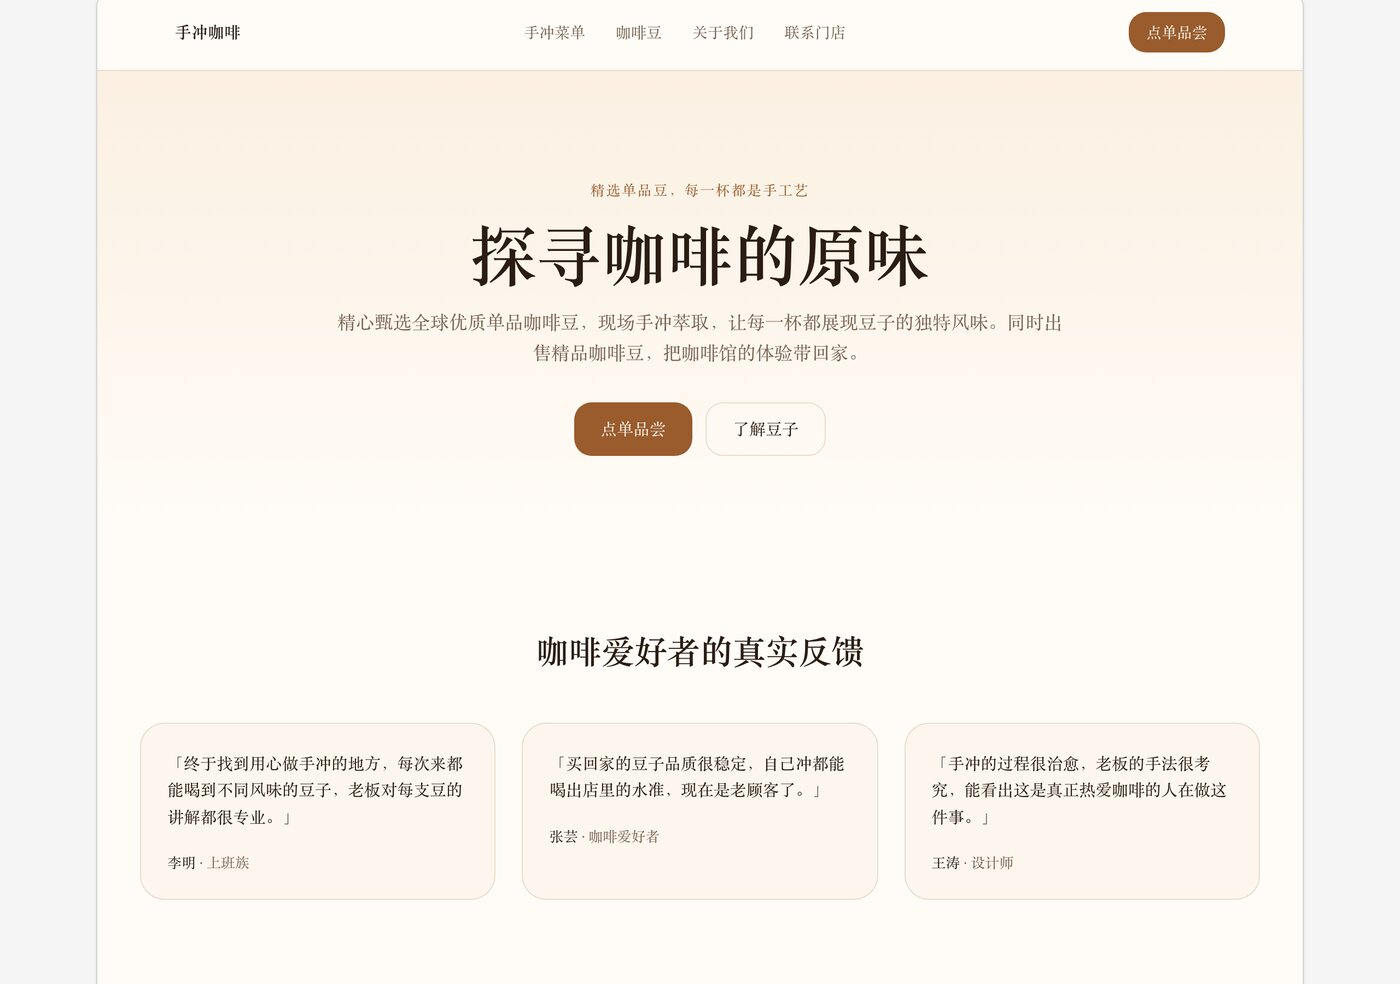
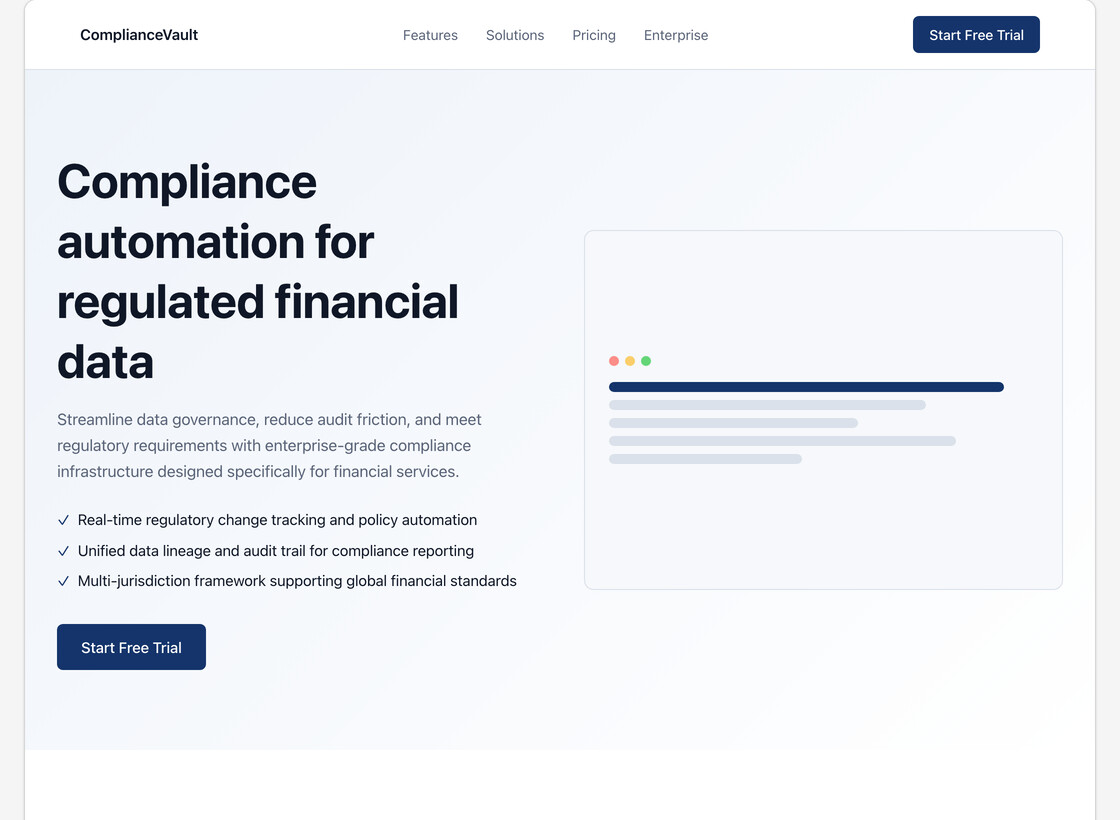
fix: the UI kept the locale it booted with, and the screenshots showed it
Redoing the README images at higher quality surfaced a bug the earlier ones had
been quietly displaying: with the interface set to English, the streaming
decision log still read 规划 / 文案 / 渲染 / 共.

Four useCallback hooks read the locale dictionary while declaring no dependency
on it, so they closed over whatever locale was current on first render. Because
the locale is detected in an effect, that is always the initial one — the UI
switched language and the status lines did not. Adding a test for the pattern
found three more beyond the one the screenshot showed.

Two further strings were never localisable at all: archetype names came from
plan.ts and theme names from themes.ts, both hardcoded Chinese, both rendered
in the UI. They now live in locales/*.json like everything else, so the key
parity test covers them.

Images redone in English at higher quality. The previous set was downscaled
twice before JPEG compression and showed a Chinese site under an English
README. The theme grid is now cropped to the hero so type is legible, resized
once, and the GIF is re-recorded without the mid-run scroll that had been
cutting the headline off.

Two more documentation tests: no image may sit in docs/images unreferenced, and
every referenced image must exist. Both mutation-verified, as was the callback
dependency check.

diff --git a/app/page.tsx b/app/page.tsx
@@ -94,7 +94,7 @@ export default function Page() {
             .map(([slot, noul]) => `${slot} ${(noul as number).toFixed(2)}`)
             .join("  ");
           setPlan(
-            `${at}  ${t.plan} → ${event.archetypeLabel}@${(event.confidence ?? 0).toFixed(2)}  ·  ${event.language}  ·  ${t.theme} ${event.theme}@${(event.themeConfidence ?? 0).toFixed(2)}  ·  ${t.required} ${event.required.join(" ")}  ·  ${t.optional} ${optional || t.none}`,
+            `${at}  ${t.plan} → ${t.archetypeLabels[event.archetype as keyof typeof t.archetypeLabels] ?? event.archetype}@${(event.confidence ?? 0).toFixed(2)}  ·  ${event.language}  ·  ${t.theme} ${event.theme}@${(event.themeConfidence ?? 0).toFixed(2)}  ·  ${t.required} ${event.required.join(" ")}  ·  ${t.optional} ${optional || t.none}`,
           );
           setTheme(event.theme);
           setPickedTheme(event.theme);
@@ -131,7 +131,7 @@ export default function Page() {
       }
     }
     setRunning(false);
-  }, []);
+  }, [t]);
 
   const applyEdit = useCallback(async () => {
     const request = editPrompt.trim();
@@ -200,7 +200,7 @@ export default function Page() {
         } as Spec;
       });
     }
-  }, [editPrompt, spec, slots, theme]);
+  }, [editPrompt, spec, slots, theme, t]);
 
   /**
    * Export the rendered result as one self-contained file: the block markup
@@ -222,7 +222,7 @@ export default function Page() {
       ...log,
       `${t.exportHtml} · ${(html.length / 1024).toFixed(0)} KB`,
     ]);
-  }, [prompt, pickedTheme, theme]);
+  }, [prompt, pickedTheme, theme, t]);
 
   const exportTsx = useCallback(() => {
     const node = previewRef.current?.firstElementChild;
@@ -239,7 +239,7 @@ export default function Page() {
       ...log,
       `${t.exportTsx} · ${(source.length / 1024).toFixed(0)} KB · ${source.split("\n").length} ${t.lines}`,
     ]);
-  }, [prompt]);
+  }, [prompt, t]);
 
   const exportSpec = useCallback(() => {
     if (!spec) return;
@@ -371,12 +371,12 @@ export default function Page() {
           {spec && (
             <div className="flex flex-wrap items-center gap-2 pt-3">
               <span className="text-[12px] text-neutral-500">{t.theme}</span>
-              {Object.entries(THEMES).map(([key, t]) => (
+              {Object.entries(THEMES).map(([key, swatch]) => (
                 <button
                   key={key}
                   type="button"
                   onClick={() => setTheme(key)}
-                  title={t.description}
+                  title={swatch.description}
                   className={`flex items-center gap-1.5 rounded-full border px-2.5 py-1 text-[12px] transition-colors ${
                     theme === key
                       ? "border-neutral-900 dark:border-white"
@@ -385,9 +385,9 @@ export default function Page() {
                 >
                   <span
                     className="h-3 w-3 rounded-full"
-                    style={{ background: t.tokens.accent, outline: `1px solid ${t.tokens.border}` }}
+                    style={{ background: swatch.tokens.accent, outline: `1px solid ${swatch.tokens.border}` }}
                   />
-                  {t.label}
+                  {t.themeLabels[key as keyof typeof t.themeLabels] ?? key}
                   {pickedTheme === key && (
                     <span className="text-[10px] text-emerald-600 dark:text-emerald-400">jev</span>
                   )}

diff --git a/lib/page.test.ts b/lib/page.test.ts
@@ -1,0 +1,56 @@
+import { readFileSync } from "node:fs";
+import { join } from "node:path";
+import { describe, expect, it } from "vitest";
+
+/**
+ * A useCallback that reads the locale dictionary but declares no dependency on
+ * it captures whatever locale was current on first render — which, because the
+ * locale is detected in an effect, is always the initial one. The symptom is
+ * subtle: the UI switches language but the streaming status lines do not.
+ */
+const SOURCE = readFileSync(join(import.meta.dirname, "..", "app", "page.tsx"), "utf8");
+
+function callbacks(source: string) {
+  const out: { name: string; body: string; deps: string }[] = [];
+  const re = /const (\w+) = useCallback\(/g;
+  for (const match of source.matchAll(re)) {
+    const start = match.index! + match[0].length;
+    let depth = 1;
+    let i = start;
+    while (i < source.length && depth > 0) {
+      if (source[i] === "(") depth += 1;
+      else if (source[i] === ")") depth -= 1;
+      i += 1;
+    }
+    const whole = source.slice(start, i - 1);
+    const comma = whole.lastIndexOf(", [");
+    out.push({
+      name: match[1]!,
+      body: whole.slice(0, comma),
+      deps: whole.slice(comma + 2).trim(),
+    });
+  }
+  return out;
+}
+
+describe("page callbacks", () => {
+  const found = callbacks(SOURCE);
+
+  it("finds the callbacks at all, so this test cannot pass vacuously", () => {
+    expect(found.length).toBeGreaterThanOrEqual(5);
+    expect(found.map((c) => c.name)).toContain("run");
+  });
+
+  it("declares the dictionary as a dependency wherever it is read", () => {
+    for (const cb of found) {
+      if (!/\bt\./.test(cb.body)) continue;
+      expect(cb.deps, `${cb.name} reads t but does not depend on it`).toMatch(/\bt\b/);
+    }
+  });
+
+  it("detects the locale in an effect rather than during render", () => {
+    // Reading navigator during render would desync server and client markup.
+    expect(SOURCE).toMatch(/useEffect\(\(\) => \{[\s\S]{0,200}detectLocale\(\)/);
+    expect(SOURCE).toMatch(/useState<UiLocale>\("zh"\)/);
+  });
+});

diff --git a/lib/docs.test.ts b/lib/docs.test.ts
@@ -74,6 +74,20 @@ describe("READMEs", () => {
     }
   });
 
+  it("ships no image nothing references", () => {
+    // An orphan in docs/images/ is dead weight that still costs clone size.
+    const { readdirSync } = require("node:fs") as typeof import("node:fs");
+    const onDisk = readdirSync(join(ROOT, "docs", "images"));
+    const referenced = new Set(
+      Object.values(texts).flatMap((text) =>
+        [...text.matchAll(/<img[^>]+src="[^"]*?([\w.-]+\.(?:png|jpg|gif))"/g)].map((m) => m[1]!),
+      ),
+    );
+    for (const file of onDisk) {
+      expect(referenced.has(file), `docs/images/${file} is never referenced`).toBe(true);
+    }
+  });
+
   it("embeds the same set of images everywhere", () => {
     const names = (text: string) =>
       [...text.matchAll(/<img[^>]+src="[^"]*?([\w.-]+\.(?:png|jpg|gif))"/g)]

diff --git a/docs/README.ko.md b/docs/README.ko.md
@@ -102,6 +102,13 @@ cp .env.example .env.local   # JEV_TOKEN 과 LLM_TOKEN 기입
 
 ## 생성 후 수정
 
+<p align="center">
+  <img src="../docs/images/editor.jpg" alt="The editor, with the decision log and theme picker" width="820">
+</p>
+
+판단 로그에 Jev가 무엇을 얼마나 확신하고 골랐는지 드러나므로, 수정이 빗나가도 원인을 추적할 수 있습니다.
+
+
 평범한 말로 지시하면 됩니다. 요청 1회, 200–400ms, **문구는 전혀 다시 생성하지 않습니다**.
 
 | 입력 | 결과 |

diff --git a/docs/README.ja.md b/docs/README.ja.md
@@ -102,6 +102,13 @@ cp .env.example .env.local   # JEV_TOKEN と LLM_TOKEN を記入
 
 ## 生成後の修正
 
+<p align="center">
+  <img src="../docs/images/editor.jpg" alt="The editor, with the decision log and theme picker" width="820">
+</p>
+
+判断ログに Jev が何をどれだけの確信で選んだかが出るので、修正が外れても原因を追えます。
+
+
 普通の言葉で指示します。1 リクエスト、200–400 ms、**文章は一切再生成しません**。
 
 | 入力 | 結果 |

diff --git a/README.md b/README.md
@@ -102,6 +102,13 @@ The files under `fixtures/` are **actual recorded runs**, not hand-written. A de
 
 ## Editing afterwards
 
+<p align="center">
+  <img src="docs/images/editor.jpg" alt="The editor, with the decision log and theme picker" width="820">
+</p>
+
+The decision log shows what Jev chose and how sure it was, so an edit that misfires is traceable rather than mysterious.
+
+
 Say what you want in plain language. One request, 200–400 ms, and **no copy is regenerated**:
 
 | You say | Result |

diff --git a/docs/README.zh.md b/docs/README.zh.md
@@ -102,6 +102,13 @@ cp .env.example .env.local   # 填 JEV_TOKEN 和 LLM_TOKEN
 
 ## 能改什么
 
+<p align="center">
+  <img src="../docs/images/editor.jpg" alt="The editor, with the decision log and theme picker" width="820">
+</p>
+
+决策日志把 jev 选了什么、有多确定都摊开，所以改错了能查，而不是一团迷雾。
+
+
 生成完之后直接用大白话改，每次一个请求、200–400ms、**不重新生成任何文案**：
 
 | 你说 | 结果 |
